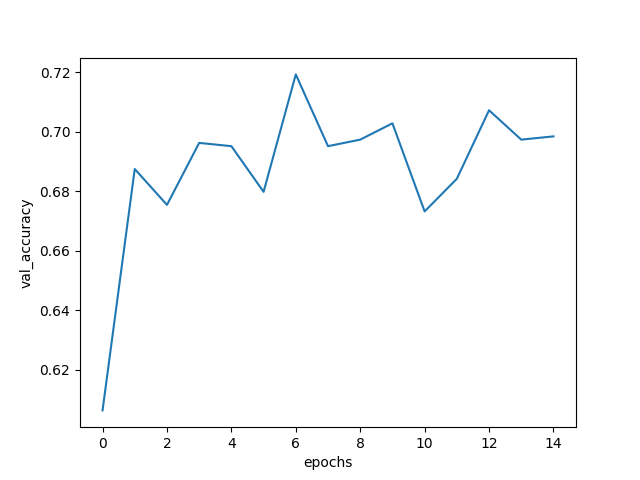
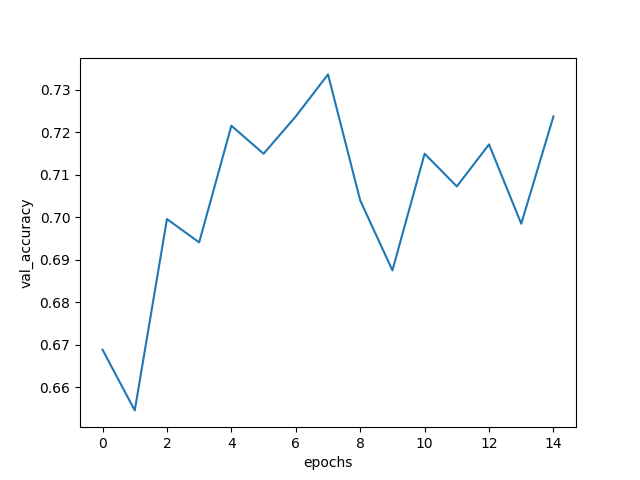
Improving val acc

diff --git a/Nick_tests/replicate/gender_model.py b/Nick_tests/replicate/gender_model.py
@@ -234,7 +234,7 @@ print("defined model")
 model.type(dtype)
 model.train()
 loss_fn = nn.CrossEntropyLoss().type(dtype)
-optimizer = optim.Adam(model.parameters(), lr=5e-5,weight_decay=5e-2)
+optimizer = optim.Adam(model.parameters(), lr=5e-5,weight_decay=1e-1)
 print("start training")
 loss_history,acc_history,val_acc_history=train(train_loader,val_loader, model, loss_fn, optimizer, dtype,num_epochs=15, print_every=17)
 
